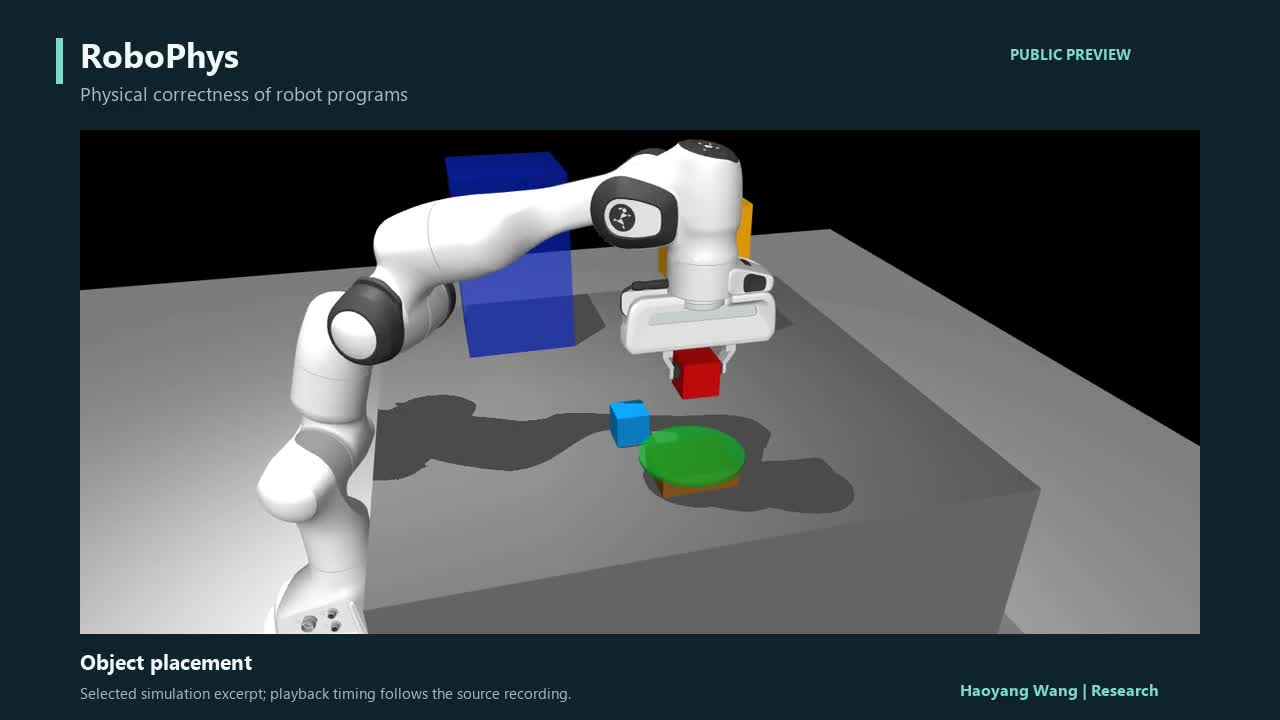
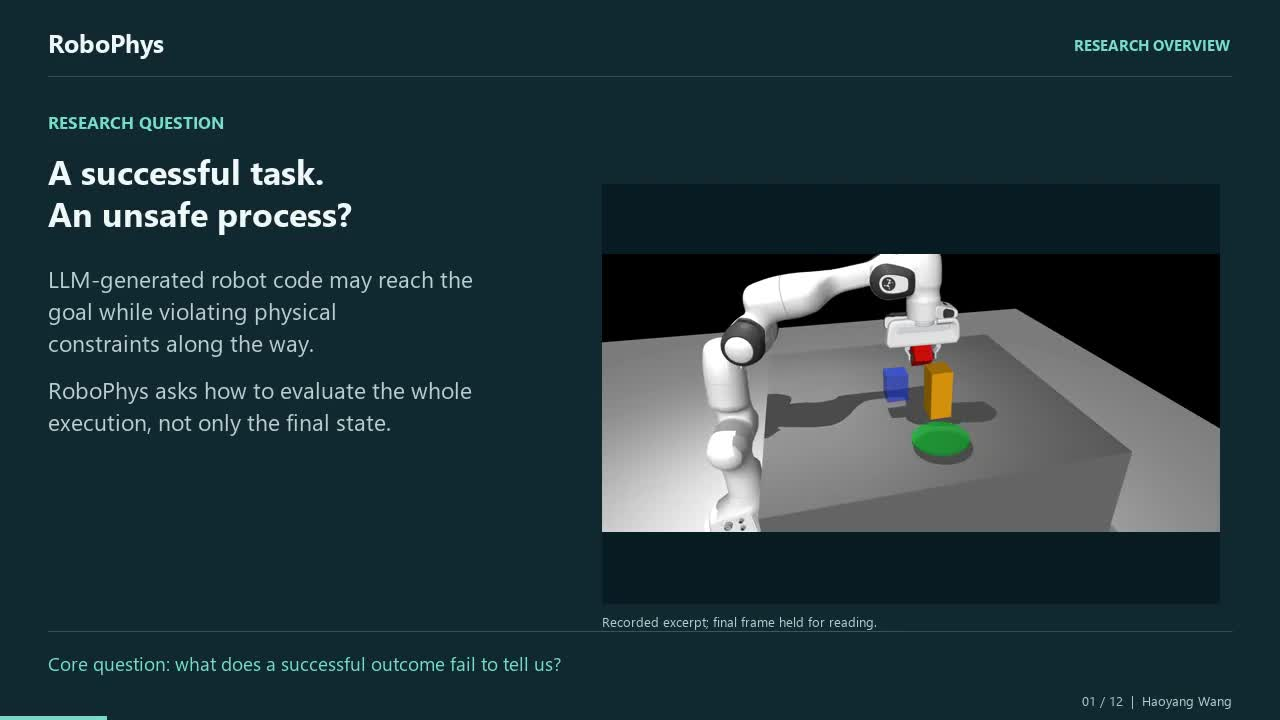
Restore research narrative in public video overviews

diff --git a/_pages/portfolio.html b/_pages/portfolio.html
@@ -23,8 +23,8 @@ author_profile: true
 <div class="research-detail-grid">
   <article class="research-detail-card research-detail-card--featured">
     <div class="research-detail-card__media">
-      <video controlslist="nodownload" oncontextmenu="return false;" controls playsinline preload="none" style="object-fit: contain;" poster="{{ '/images/robophys-public-preview.jpg' | relative_url }}" aria-label="RoboPhys public research preview">
-        <source src="{{ '/files/robophys-public-preview.mp4' | relative_url }}?v=2" type="video/mp4">
+      <video controlslist="nodownload" oncontextmenu="return false;" controls playsinline preload="none" style="object-fit: contain;" poster="{{ '/images/robophys-public-preview.jpg' | relative_url }}?v=3" aria-label="RoboPhys research overview">
+        <source src="{{ '/files/robophys-public-preview.mp4' | relative_url }}?v=3" type="video/mp4">
         Your browser does not support the video tag.
       </video>
       <span class="media-label">Representative evaluation scenes</span>
@@ -34,15 +34,15 @@ author_profile: true
       <h3><a href="{{ '/portfolio/2026-llm-robot-code-safety' | relative_url }}">RoboPhys: Physical Correctness of LLM-Generated Robot Code</a></h3>
       <p>This project evaluates the gap between task completion and physical correctness in generated robot programs. Execution evidence reveals hidden violations and guides targeted repairs; remaining failures show why corrected programs still require whole-run validation.</p>
       <p class="research-detail-card__question"><strong>Research question:</strong> How should functional success and physical safety be evaluated separately for generated robot programs?</p>
-      <p class="research-detail-card__note">36-second public preview: selected robot behaviors. Detailed methods and results are available on request.</p>
+      <p class="research-detail-card__note">Research overview: measuring the outcome–execution gap, explaining failure mechanisms, and revalidating corrections. Includes qualitative findings and contributions.</p>
       <a class="academic-link" href="{{ '/portfolio/2026-llm-robot-code-safety' | relative_url }}">Explore the evaluation workflow →</a>
     </div>
   </article>
 
   <article class="research-detail-card research-detail-card--featured">
     <div class="research-detail-card__media research-detail-card__media--video">
-      <video controlslist="nodownload" oncontextmenu="return false;" controls playsinline preload="none" style="object-fit: contain;" poster="{{ '/images/sage-hand-public-preview.jpg' | relative_url }}" aria-label="SAGE Hand public research preview">
-        <source src="{{ '/files/sage-hand-public-preview.mp4' | relative_url }}?v=2" type="video/mp4">
+      <video controlslist="nodownload" oncontextmenu="return false;" controls playsinline preload="none" style="object-fit: contain;" poster="{{ '/images/sage-hand-public-preview.jpg' | relative_url }}?v=3" aria-label="SAGE Hand research overview">
+        <source src="{{ '/files/sage-hand-public-preview.mp4' | relative_url }}?v=3" type="video/mp4">
         Your browser does not support the video tag.
       </video>
       <span class="media-label">Representative manipulation</span>

diff --git a/_pages/about.md b/_pages/about.md
@@ -25,13 +25,13 @@ redirect_from:
 </div>
 
 <div class="research-section-heading" id="selected-research"><div><p class="research-eyebrow">Selected work</p><h2>Research in motion</h2></div><a href="{{ '/portfolio/' | relative_url }}">All projects <span aria-hidden="true">↗</span></a></div>
-<p class="research-preview-note">Selected public demonstrations. Full research videos are available <a href="mailto:vwang6925@gmail.com?subject=Research%20demonstration%20request">on request</a>.</p>
+<p class="research-preview-note">Research overviews and selected public demonstrations. Full research videos are available <a href="mailto:vwang6925@gmail.com?subject=Research%20demonstration%20request">on request</a>.</p>
 
 <div class="current-research-grid">
   <article class="current-research-card">
     <div class="current-research-card__visual">
-      <video controlslist="nodownload" oncontextmenu="return false;" controls playsinline preload="none" style="object-fit: contain;" poster="{{ '/images/robophys-public-preview.jpg' | relative_url }}" aria-label="RoboPhys public research preview">
-        <source src="{{ '/files/robophys-public-preview.mp4' | relative_url }}?v=2" type="video/mp4">
+      <video controlslist="nodownload" oncontextmenu="return false;" controls playsinline preload="none" style="object-fit: contain;" poster="{{ '/images/robophys-public-preview.jpg' | relative_url }}?v=3" aria-label="RoboPhys research overview">
+        <source src="{{ '/files/robophys-public-preview.mp4' | relative_url }}?v=3" type="video/mp4">
         Your browser does not support the video tag.
       </video>
     </div>
@@ -46,8 +46,8 @@ redirect_from:
 
   <article class="current-research-card">
     <div class="current-research-card__visual">
-      <video controlslist="nodownload" oncontextmenu="return false;" controls playsinline preload="none" style="object-fit: contain;" poster="{{ '/images/sage-hand-public-preview.jpg' | relative_url }}" aria-label="SAGE Hand public research preview">
-        <source src="{{ '/files/sage-hand-public-preview.mp4' | relative_url }}?v=2" type="video/mp4">
+      <video controlslist="nodownload" oncontextmenu="return false;" controls playsinline preload="none" style="object-fit: contain;" poster="{{ '/images/sage-hand-public-preview.jpg' | relative_url }}?v=3" aria-label="SAGE Hand research overview">
+        <source src="{{ '/files/sage-hand-public-preview.mp4' | relative_url }}?v=3" type="video/mp4">
         Your browser does not support the video tag.
       </video>
     </div>

diff --git a/_portfolio/2026-dexterous-manipulation-reinforcement-learning.md b/_portfolio/2026-dexterous-manipulation-reinforcement-learning.md
@@ -28,16 +28,15 @@ The project connects LLM-assisted model development with iterative structural re
 ## SAGE Hand research video
 
 <figure class="research-media research-media--landscape">
-  <video controlslist="nodownload" oncontextmenu="return false;" controls playsinline preload="none" style="object-fit: contain;" poster="{{ '/images/sage-hand-public-preview.jpg' | relative_url }}" aria-label="SAGE Hand public research preview">
-    <source src="{{ '/files/sage-hand-public-preview.mp4' | relative_url }}?v=2" type="video/mp4">
+  <video controlslist="nodownload" oncontextmenu="return false;" controls playsinline preload="none" style="object-fit: contain;" poster="{{ '/images/sage-hand-public-preview.jpg' | relative_url }}?v=3" aria-label="SAGE Hand research overview">
+    <source src="{{ '/files/sage-hand-public-preview.mp4' | relative_url }}?v=3" type="video/mp4">
     Your browser does not support the video tag.
   </video>
   <figcaption>
-    Public preview: selected simulation behavior. Full demonstrations are available for research discussions on request.
+    Research overview: the research question, overall design, main stages, qualitative findings, contributions, and next steps. Detailed numerical results and implementation settings are omitted.
   </figcaption>
 </figure>
 
-<p class="research-request"><strong>Interested in the full study?</strong> <a href="mailto:vwang6925@gmail.com?subject=Research%20demonstration%20request">Request a full research demonstration →</a></p>
 
 ## Main findings
 

diff --git a/_portfolio/2026-llm-robot-code-safety.md b/_portfolio/2026-llm-robot-code-safety.md
@@ -28,16 +28,15 @@ The project connects three stages: measuring the gap between functional success 
 ## RoboPhys research video
 
 <figure class="research-media research-media--landscape">
-  <video controlslist="nodownload" oncontextmenu="return false;" controls playsinline preload="none" style="object-fit: contain;" poster="{{ '/images/robophys-public-preview.jpg' | relative_url }}" aria-label="RoboPhys public research preview">
-    <source src="{{ '/files/robophys-public-preview.mp4' | relative_url }}?v=2" type="video/mp4">
+  <video controlslist="nodownload" oncontextmenu="return false;" controls playsinline preload="none" style="object-fit: contain;" poster="{{ '/images/robophys-public-preview.jpg' | relative_url }}?v=3" aria-label="RoboPhys research overview">
+    <source src="{{ '/files/robophys-public-preview.mp4' | relative_url }}?v=3" type="video/mp4">
     Your browser does not support the video tag.
   </video>
   <figcaption>
-    Public preview: selected simulation behavior. Full demonstrations are available for research discussions on request.
+    Research overview: the research question, overall design, main stages, qualitative findings, contributions, and next steps. Detailed numerical results and implementation settings are omitted.
   </figcaption>
 </figure>
 
-<p class="research-request"><strong>Interested in the full study?</strong> <a href="mailto:vwang6925@gmail.com?subject=Research%20demonstration%20request">Request a full research demonstration →</a></p>
 
 ## Main findings
 
